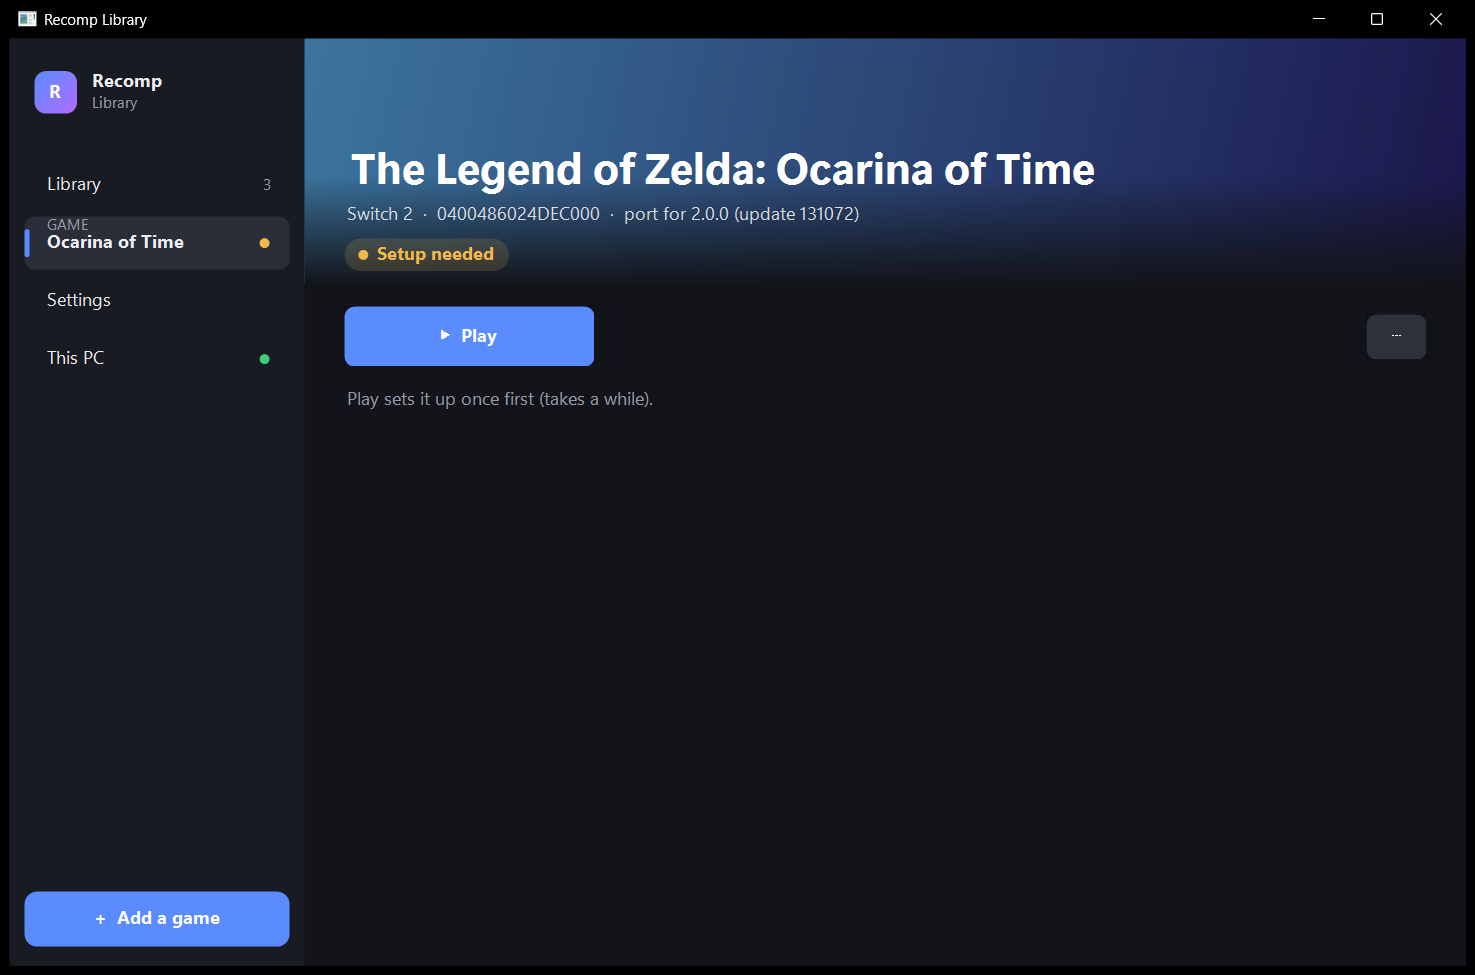
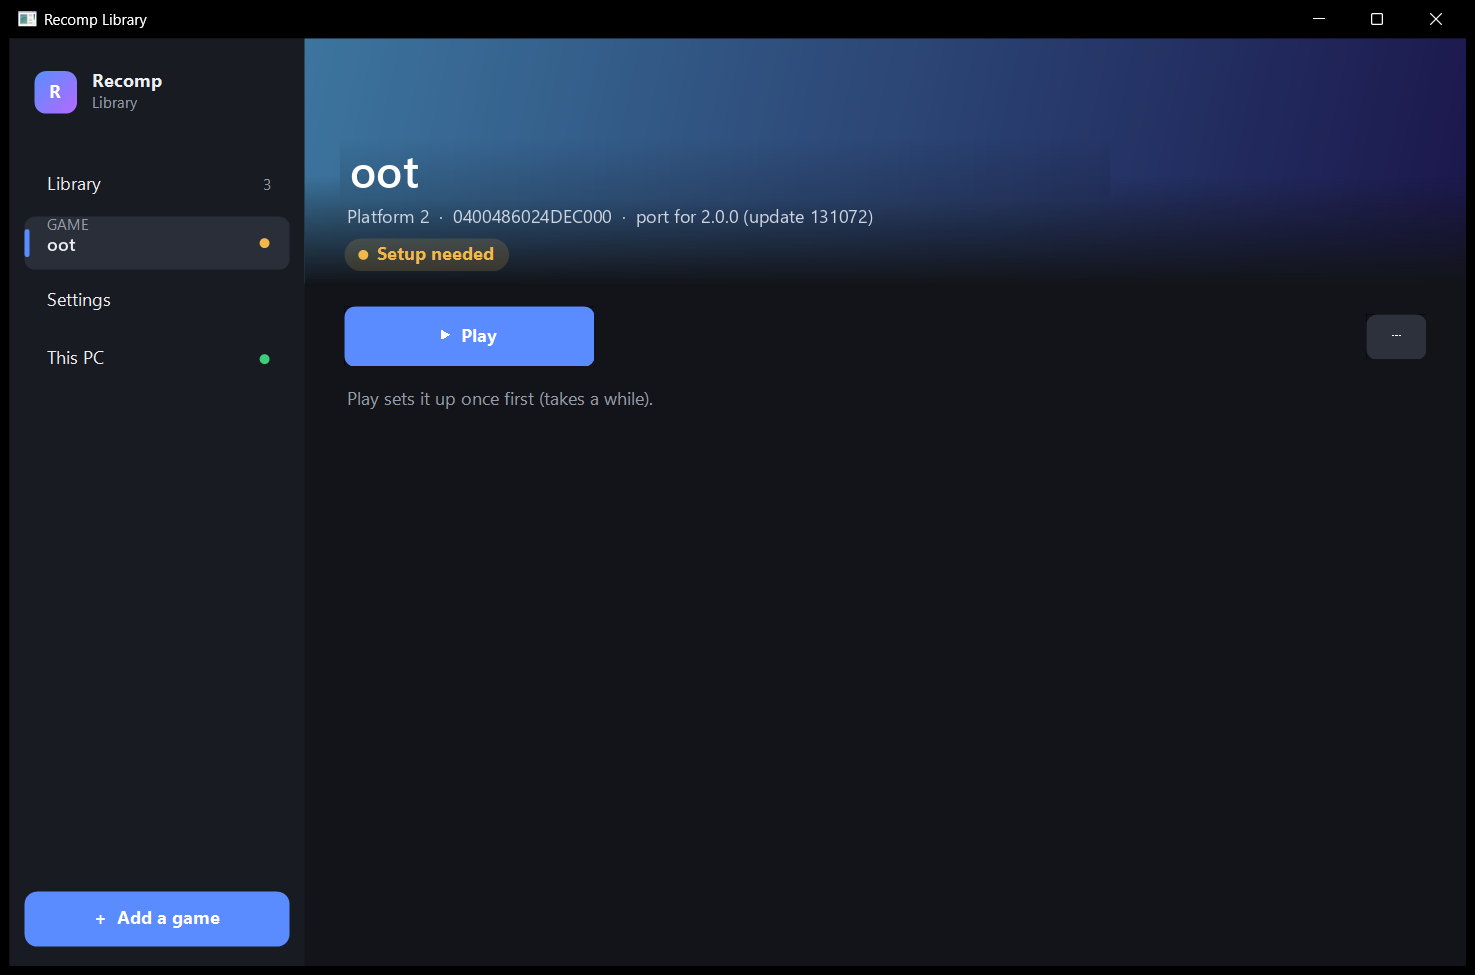
Legal: README holds the only non-affiliation and trademark note; LEGAL.md, GAMES.md, manifests and screenshots neutral
README gets a 'Legal notice and trademarks' section (not affiliated with or endorsed by the console maker;
trademarks used only nominatively; no game code, keys, firmware or SDK code). LEGAL.md points there and states
the naming rule. GAMES.md lists games by id and title ID. The oot manifest's title, short title, window title
and example folder are the neutral id; the unused launcher.disclaimer key and the old save folder name are gone.
The README screenshots show the id instead of the game's title. The services cross-check doc is renamed to
platform2_services_xcheck.md.

Changed region(s): [[0.2183, 0.1538, 0.7485, 0.2462], [0.0312, 0.2462, 0.1247, 0.2769]]

diff --git a/runtime/docs/CONFIG.md b/runtime/docs/CONFIG.md
@@ -347,7 +347,7 @@ Rules:
 | `display` | `monitor` | `auto` | none (controls.ini only) | `src/gfx/play/play.cpp`, `src/gfx/platform.cpp` | The display the window lives on: `auto` (where the window opens) or the display's number, 1 for the first in the system's order. Moves the window at once; a fullscreen window goes along. |
 | `display` | `shader_prewarm` | `1` | none (controls.ini only) | `src/gfx/play/play.cpp` | The F1 menu's "Prepare shaders ahead": becomes `[nvn] prewarm` at the start unless that key is set in the ini or the environment. |
 | `display` | `astc_quality` | `high` | none (controls.ini only) | `src/gfx/play/play.cpp` | The F1 menu's "Texture compression quality" (Graphics page, applies on restart): becomes `[gfx] astc_quality` at the start unless that key is set in the ini or the environment. `fast`, `high` or `uncompressed`. |
-| `padmap` | `south`, `east`, `west`, `north`, `left_shoulder`, `right_shoulder`, `left_trigger`, `right_trigger`, `start`, `back`, `left_stick`, `right_stick`, `dpad_up`, `dpad_down`, `dpad_left`, `dpad_right` | `default` | none (controls.ini only) | `src/gfx/play/pad_map.cpp` | What each controller button presses on the Switch pad. `default` keeps the built-in layout (`[pad] label_abxy` still decides the face buttons). `none` makes the button do nothing. Or list Switch buttons joined by `+` (`A`, `ZL+L`). Names describe position: `south` is the bottom face button (A on an Xbox pad, cross on a PlayStation pad). Stick directions are not allowed here. A remapped button stops pressing its built-in button. |
+| `padmap` | `south`, `east`, `west`, `north`, `left_shoulder`, `right_shoulder`, `left_trigger`, `right_trigger`, `start`, `back`, `left_stick`, `right_stick`, `dpad_up`, `dpad_down`, `dpad_left`, `dpad_right` | `default` | none (controls.ini only) | `src/gfx/play/pad_map.cpp` | What each controller button presses on the console pad. `default` keeps the built-in layout (`[pad] label_abxy` still decides the face buttons). `none` makes the button do nothing. Or list console buttons joined by `+` (`A`, `ZL+L`). Names describe position: `south` is the bottom face button (A on an Xbox pad, cross on a PlayStation pad). Stick directions are not allowed here. A remapped button stops pressing its built-in button. |
 | `prompts` | `dir` | empty | `NXRT_PROMPTS_DIR` | `src/gfx/play/prompts.cpp` | Folder searched first for `prompt_icons.pak`, the button icon pack. Empty: the search goes on to `prompts` beside the executable, then `assets/prompts` under the working directory, then the executable's folder. |
 | `hdr` | `mode` | `auto` | `NXRT_HDR_MODE` | `src/gfx/extras/extras_state.cpp` | HDR output: `off`, `auto` (HDR when the display and Windows offer it), `on`, or `native` (as `on`, with the levels the game declares for an HDR TV on platform 2: the `nn::vi` standard content luminance range is paper white unless `paper_white_nits` is set, the extended range or the NVN2 window content metadata is the content maximum in the swapchain's HDR metadata; NVN2 window colour space and HDR metadata calls are recorded too; one `HDR native:` log line gives the decision). Play mode reads the `[hdr]` section of `controls.ini` instead; this key only applies to code that does not load that file. The environment variable overrides the file in play mode. Applies at the next start. |
 | `hdr` | `format` | `auto` | `NXRT_HDR_FORMAT` | `src/gfx/extras/extras_state.cpp` | Swapchain format: `auto` (HDR10 when offered, else scRGB), `hdr10` or `scrgb`. Same reading rules as `hdr` `mode`. Applies at the next start. |
@@ -432,7 +432,7 @@ These live in the play-mode file `controls.ini` (key `[play] controls`), not in 
 | `8` | `visor_4` | X-ray visor |
 | Mouse wheel up / down | `beam_prev` / `beam_next` | Cycle the beams you own, in the order power, wave, ice, plasma. Off when `[mouse] wheel_beams = 0`. |
 
-How it works: the game only knows the Switch pad, so an action is turned into pad buttons by the `[switch]` table. By default `beam_1` to `beam_4` hold X and press the d-pad (up, right, down, left), and `visor_1` to `visor_4` press the d-pad alone (up, right, down, left). The wheel skips beams the player does not have yet. In the menu and map contexts they are switched off (`1` to `8 = none` in `[bindings.menu]` and `[bindings.map]`) and the wheel moves the cursor or the map instead.
+How it works: the game only knows the console pad, so an action is turned into pad buttons by the `[switch]` table. By default `beam_1` to `beam_4` hold X and press the d-pad (up, right, down, left), and `visor_1` to `visor_4` press the d-pad alone (up, right, down, left). The wheel skips beams the player does not have yet. In the menu and map contexts they are switched off (`1` to `8 = none` in `[bindings.menu]` and `[bindings.map]`) and the wheel moves the cursor or the map instead.
 
 To change a key, add a line `Key = action` to `[bindings.all]` (every context) or to one context (`[bindings.gameplay]`, `[bindings.morph]`, `[bindings.scan]`, `[bindings.menu]`, `[bindings.map]`). `Key = none` switches an input off in that context. Key names are SDL scancode names (`Left Ctrl`, `Page Up`, `Mouse1`, `WheelUp`).
 

diff --git a/GAMES.md b/GAMES.md
@@ -1,7 +1,8 @@
 # Games
 
 Which games the library knows, and how well they run. The library recognises a dump by its **title ID** and its version (the **build
-ID** of the game's `main` program). A dump of another version shows a warning and may not start.
+ID** of the game's `main` program). A dump of another version shows a warning and may not start. Games are listed by their
+short id (the folder name under `recomp/games/`) and title ID; the project names no game titles (see `LEGAL.md`).
 
 ## States
 
@@ -15,20 +16,19 @@ ID** of the game's `main` program). A dump of another version shows a warning an
 
 ## List
 
-| Game | Title ID | Version | Main build ID | State | Notes |
+| Id | Title ID | Version | Main build ID | State | Notes |
 |---|---|---|---|---|---|
-| The game | `0400486024DEC000` | 2.0.0 (131072) | `e0f3ccfaf50065ae4ea01eb5aeb13b1a45da3348` | 🟡 In game | Title, intro movie and the first scenes render. 30-38 fps early in the first scene, 15-23 fps in heavier views. |
-| The game | `0400486024DEC000` | 1.0.0 (base) | `33fa6c2c23848282a77e8b88a0a93f4887c55920` | ❌ No port | Install update 2.0.0 and dump again. |
-| Title A | `0400A3A01EE4C000` | 2.0.1a (655360) | `76a489f3bd3642fa5e18bd83d32c98bacc5f7d0e` | ⚪ No port | No dedicated port in the repository. A dump goes through the library's experimental (generic) build. |
-| Title A | `0400A3A01EE4C000` | 1.0.0 (base) | `d4e672b8b97a5a0a56620c52a6ae88a2cab83020` | ❌ No port | Install update 2.0.1a and dump again. |
-| Title D (platform 2 Edition) | `010015100B514000` | 5.0.0 (327680) | `ff773e90972d544eb79406eaa65396d53c43efb9` | ❌ No port | A platform 1 program with platform 2 features. |
+| `oot` | `0400486024DEC000` | 2.0.0 (131072) | `e0f3ccfaf50065ae4ea01eb5aeb13b1a45da3348` | 🟡 In game | Title, intro movie and the first scenes render. 30-38 fps early in the first scene, 15-23 fps in heavier views. |
+| `oot` | `0400486024DEC000` | 1.0.0 (base) | `33fa6c2c23848282a77e8b88a0a93f4887c55920` | ❌ No port | Install update 2.0.0 and dump again. |
+| (none) | `0400A3A01EE4C000` | 2.0.1a (655360) | `76a489f3bd3642fa5e18bd83d32c98bacc5f7d0e` | ⚪ No port | No dedicated port in the repository. A dump goes through the library's experimental (generic) build. |
+| (none) | `0400A3A01EE4C000` | 1.0.0 (base) | `d4e672b8b97a5a0a56620c52a6ae88a2cab83020` | ❌ No port | Install update 2.0.1a and dump again. |
+| (none) | `010015100B514000` | 5.0.0 (327680) | `ff773e90972d544eb79406eaa65396d53c43efb9` | ❌ No port | A platform 1 program with platform 2 features. |
 
 ## Known problems
 
-- **The game**: the game runs at real speed at any frame rate (since 2026-11-08), but the frame rate is still below 60 and some
+- **`oot`**: the game runs at real speed at any frame rate (since 2026-11-08), but the frame rate is still below 60 and some
   scenes are not checked yet. Details in [AGENTS.md](AGENTS.md) (the artifact table).
-- **Title A**: the port exists in the repository, but the release package does not carry it (its runtime is not built there), so the
-  library shows a title A dump as "No port yet".
+- **`0400A3A01EE4C000`**: no port in the repository; the library offers the experimental (generic) build for it.
 
 ## Report a game or a bug
 

diff --git a/LEGAL.md b/LEGAL.md
@@ -2,10 +2,10 @@
 
 ## What this project is
 
-An unofficial, non-commercial, open-source tool set that statically recompiles the program code of a Nintendo Switch 2 game from a dump
-the player made of their own copy, so that the player can run that copy on their own Windows PC. It is an interoperability and
-preservation project. It is not affiliated with, endorsed by or sponsored by Nintendo, The Pokémon Company, Creatures Inc., GAME FREAK
-inc. or any other publisher or rights holder.
+An unofficial, non-commercial, open-source tool set that statically recompiles the program code of a console game from a dump the
+player made of their own copy, so that the player can run that copy on their own Windows PC. It is an interoperability and
+preservation project. It is not affiliated with, endorsed by or sponsored by the console maker or any game developer, publisher or
+other rights holder; the non-affiliation and trademark notice that names them is in `README.md` ("Legal notice and trademarks").
 
 ## Disclaimer
 
@@ -27,8 +27,8 @@ are responsible for using it lawfully where you live. Nothing here is legal advi
 - No game code, game files or game assets: no executables, RomFS data, shaders or shader caches, textures, models, audio, movies,
   fonts, text or save files of any game.
 - No encryption keys, title keys, firmware or system files.
-- No Nintendo SDK code, headers or documentation.
-- No Nintendo or game logos, icons, box art or screenshots of games.
+- No SDK code, headers or documentation of the console maker.
+- No logos, icons or box art of the console maker or of any game, and no screenshots of games.
 - No links to games, keys or firmware, and no help to obtain them other than dumping your own copy.
 
 The repository holds facts needed for interoperability: title IDs, build IDs, file hashes, code offsets and function names, and notes
@@ -42,10 +42,11 @@ bundles that contain game data to issues.
 
 ## Trademarks
 
-Nintendo, Nintendo Switch and Nintendo Switch 2 are trademarks of Nintendo. The Legend of Zelda and Ocarina of Time are trademarks of
-Nintendo. Pokémon is a trademark of Nintendo, Creatures Inc. and GAME FREAK inc. Other names are trademarks of their owners.
-They are used only nominatively: to say which hardware a dump comes from and which game a module supports. Their use does not mean
-that any rights holder endorses or is connected with this project. The project's apps and icons use no Nintendo or game logos or art.
+The trademark and non-affiliation notice is in `README.md` ("Legal notice and trademarks"); it is the only place where the repository
+names the console maker in its own words. Everywhere else (code, comments, logs, documentation, tests, tools, manifests, CI) games are named only
+by short neutral ids (such as `oot`) and the consoles as "platform 1" / "platform 2"; identifiers that file formats, system interfaces
+or third-party APIs require stay as they are. Names of upstream open-source projects stay where they credit code taken from them. The
+project's apps, icons and packages use no trademarks, logos or art of the console maker or of any game.
 
 ## DLSS
 

diff --git a/AGENTS.md b/AGENTS.md
@@ -658,8 +658,8 @@ recorded (`frame_chunk`, nvn_gpu.cpp; ~2.4 parts per frame in the game, long pas
 set_reuse` (default on): read-only graphics descriptor sets are bound again without resolving when their raw inputs and the resolve epoch
 are unchanged (15-20% of the sets in game; `verify` mode found no difference); the per-draw held-result checks of the bound buffers
 (`out_draw_bindings`) are skipped under the same condition. Paired A/B in one run (`[nvn] cpuperf_ab = 300`, ftrace marks `cpuperf.on/off`):
-first scene 30.1 -> 34.0 fps (chunks alone) and 29.1 -> 32.8 (both), village walk 26.9 -> 32.3 (chunks) and 31.1 -> 35.3 (both), Link's
-house (static view) 46.6 -> 48.2 (both). Most of the gain is the chunks; set reuse adds ~1-2 fps where the render thread matters. After it
+first scene 30.1 -> 34.0 fps (chunks alone) and 29.1 -> 32.8 (both), village walk 26.9 -> 32.3 (chunks) and 31.1 -> 35.3 (both), the house
+scene (static view) 46.6 -> 48.2 (both). Most of the gain is the chunks; set reuse adds ~1-2 fps where the render thread matters. After it
 the first scene and the house are GPU-bound (P ~ frame time). The biggest render-thread item left is `out_overlaps` (nvn_gpu_pool.cpp, ~15%
 of nvn-render samples, its own loop under a mutex), then build_set (~20%, half of it pool_lookup / resolve_in_pool / out_add).
 After the merge with the coherence work (1769f1f), all of it on vs off in one run: first scene 36.7 -> 39.2 fps, village walk 36.0 -> 43.0.
@@ -679,8 +679,8 @@ pipelines, 120-200k of whole ones` (first scene). (3) The game's nvnSyncWait wai
 submissions behind the newest, ~220 of ~320 calls per 10 s actually wait; its window acquire syncs are always signaled already
 (`nvn: nvnSyncWait over 10 s on ...` lines). Changes: `out_fetch` submits and waits with the compute-out lock free (`[nvn]
 out_fetch_unlocked`; entries marked fetching, found again by id; neutral in fps: guard faults are rare now, the render thread's lock waits
-were < 0.01 ms per frame both ways). **Interval index** (`[nvn] out_index`): the held-result overlap questions (~17 M per 10 s in Link's
-house, ~35 entries) are answered from sorted merged page intervals rebuilt when their version moves (~45k rebuilds / 10 s, ~0.2-0.4 ms per
+were < 0.01 ms per frame both ways). **Interval index** (`[nvn] out_index`): the held-result overlap questions (~17 M per 10 s in the house
+scene, ~35 entries) are answered from sorted merged page intervals rebuilt when their version moves (~45k rebuilds / 10 s, ~0.2-0.4 ms per
 frame), plus per-op page dedupe and a no-overlap cache for the pointer windows in `gmem_before_op` (~60% hits). Paired windows (`[nvn]
 out_index_ab = 300`, 854x480): the house scene 47.5 -> 51.8 fps, render-thread replay 20.5 -> 17.9 ms, 1% low 34.4 -> 34.8; village outside
 21.2 -> 23.8 fps, median frame 46.6 -> 36.4 ms (1% low 15.7 -> 14.7); first scene 50-260 s 26.5 -> 28.9 fps, replay 35.3 -> 29.1 ms, and in

diff --git a/README.md b/README.md
@@ -1,11 +1,11 @@
 # AiO S2 Recompiler
 
-An all-in-one, open-source tool set that runs games for the Nintendo Switch 2 console that **you own** natively on Windows. It statically recompiles the
-game's program code from your own dump into PC code, and its runtime and shader translator do the rest. One library app manages every
+An all-in-one, open-source tool set that runs console games **you own** natively on Windows. It statically recompiles the game's
+program code from your own dump into PC code, and its runtime and shader translator do the rest. One library app manages every
 supported game.
 
-Unofficial. Not affiliated with or endorsed by Nintendo or any publisher. The repository contains no game files, keys, firmware or
-Nintendo code, and the app never downloads any. See [LEGAL.md](LEGAL.md).
+Unofficial and not affiliated with any console maker or publisher (see [Legal notice and trademarks](#legal-notice-and-trademarks)).
+The repository contains no game files, keys, firmware or SDK code, and the app never downloads any. See [LEGAL.md](LEGAL.md).
 
 ## What it does
 
@@ -59,5 +59,16 @@ GPL-3.0 ([LICENSE](LICENSE)). Third-party code keeps its own licence; notices ar
 [nxrecomp](https://github.com/drakolordx7/nxrecomp) and work from Ryujinx, Mesa, smo-recomp, ScarletNX, ssbu-recomp,
 SuperMarioWonderRecomp, yuzu/Eden, libnx and others named in those notices.
 
-Nintendo Switch 2 and the game names are trademarks of their owners. They are used only to say which hardware and games the project
-works with.
+## Legal notice and trademarks
+
+This README is the only place where the project names the console maker in its own words (identifiers that file formats, system
+interfaces or third-party APIs require aside).
+
+- AiO S2 Recompiler is an unofficial, non-commercial, open-source project. It is **not affiliated with, endorsed, sponsored or approved
+  by Nintendo** or by any game developer, publisher or other rights holder.
+- Nintendo and Nintendo Switch 2 are trademarks of Nintendo. Game titles that the library shows for your own dumps are read from those
+  dumps and are trademarks of their owners. Such names are used only to say which hardware and which dumps the tools work with; the
+  project's own name, apps, icons and package names use no Nintendo or game names, logos, icons or artwork.
+- The repository and the release packages contain no game code or assets, no keys, no firmware and no Nintendo SDK code or
+  documentation. You need your own legally made dump of a game you own; the project does not help you obtain games, keys or firmware.
+- Rights holders: see "Takedown requests and rights-holder concerns" in [LEGAL.md](LEGAL.md).

diff --git a/runtime/docs/IPC_ANSWERS.md b/runtime/docs/IPC_ANSWERS.md
@@ -23,7 +23,7 @@ has the id, otherwise from the SDK client proxy (address given).
 | IApplicationFunctions | 141 TryPopFromFriendInvitationStorageChannel | 128-2 (no data) | nn::friends::TryPopFriendInvitationNotificationInfo (0x75003d89f0, slot 0x1B8) reads 128-2 as "none" and returns false; any other failure aborts |
 | ILibraryAppletCreator / accessor | MyPage applet 0x100001A (friend invitation) | created; Start ends it at once, GetResult 128-22 (cancelled) | nn::friends::StartFriendInvitation / StartSendingFriendInvitation (0x75003e32a0, 0x75003e33b0) run it with arg kind 8 / 9; creating must succeed (CreateMyPageApplet aborts otherwise). Cancelled makes the friends call return 121-30 (0x3C79): the game ignores it for StartFriendInvitation (main 0x7101b2a5a0) and takes its failure branch for StartSending (main 0x7101b2a7ec). Offline: no invitation sent. The friends service itself gets no invitation IPC from these calls |
 | IManagerForApplication | 3 LoadIdTokenCacheDeprecated, 4 LoadIdTokenCache | 124-200 NetworkServiceAccountRegistrationRequired | no NSA token; SDK wrapper returns it to the game |
-| IManagerForApplication | 170 LoadNetworkServiceLicenseKindAsync | async context: done, GetResult fails (110-300) | offline, no Switch Online licence |
+| IManagerForApplication | 170 LoadNetworkServiceLicenseKindAsync | async context: done, GetResult fails (110-300) | offline, no online-service licence |
 | IAsyncNetworkServiceLicenseKindContext | 100 GetNetworkServiceLicenseKind | success, u32 0 (none) | SDK aborts if it fails (0x750018c634) |
 
 ## Library applets title A can launch

diff --git a/runtime/docs/MENU.md b/runtime/docs/MENU.md
@@ -33,7 +33,7 @@ while a dialog is open.** They change settings through the same host as everythi
 they come to the front.
 
 - **Gamepad**: the connected controllers and what is pressed on each, Test rumble, face-button layout, dead zones, trigger threshold, rumble
-  strength, gyro scale, rumble and gyro on/off, and the button mapping: select a Switch button, Rebind, press a button on the controller (or
+  strength, gyro scale, rumble and gyro on/off, and the button mapping: select a console button, Rebind, press a button on the controller (or
   pull a trigger); the button that had the job takes over the old job of the pressed one (a swap). Built-in layout resets all of them.
   Sliders apply when they are let go.
 - **Keyboard and mouse bindings**: the bindings of a context (a game that does not report play or menu, like the game for now, uses the `menu`

diff --git a/runtime/THIRD_PARTY_NOTICES.md b/runtime/THIRD_PARTY_NOTICES.md
@@ -7,7 +7,7 @@ from the platform: no game, SDK or firmware code or data is part of the reposito
 
 The repository is a fork of drakolordx7's switch2-recomp / nxrecomp code base (recompiler, runtime, tools and launcher; first commit
 "Initial public release of the runtime, recompiler, tools and launcher (no game code or data)"), released under GPL-3.0.
-featureJosh's port of title A is another fork of the same code base, also GPL-3.0, and is used as a reference. Code taken from these
+featureJosh/pokopia-recomp is another fork of the same code base, also GPL-3.0, and is used as a reference. Code taken from these
 projects stays under GPL-3.0, the licence of this repository (`LICENSE` at the root; `recomp/LICENSE`, `runtime/LICENSE` and
 `launcher/LICENSE` are the same text), and keeps its authors' copyright.
 
